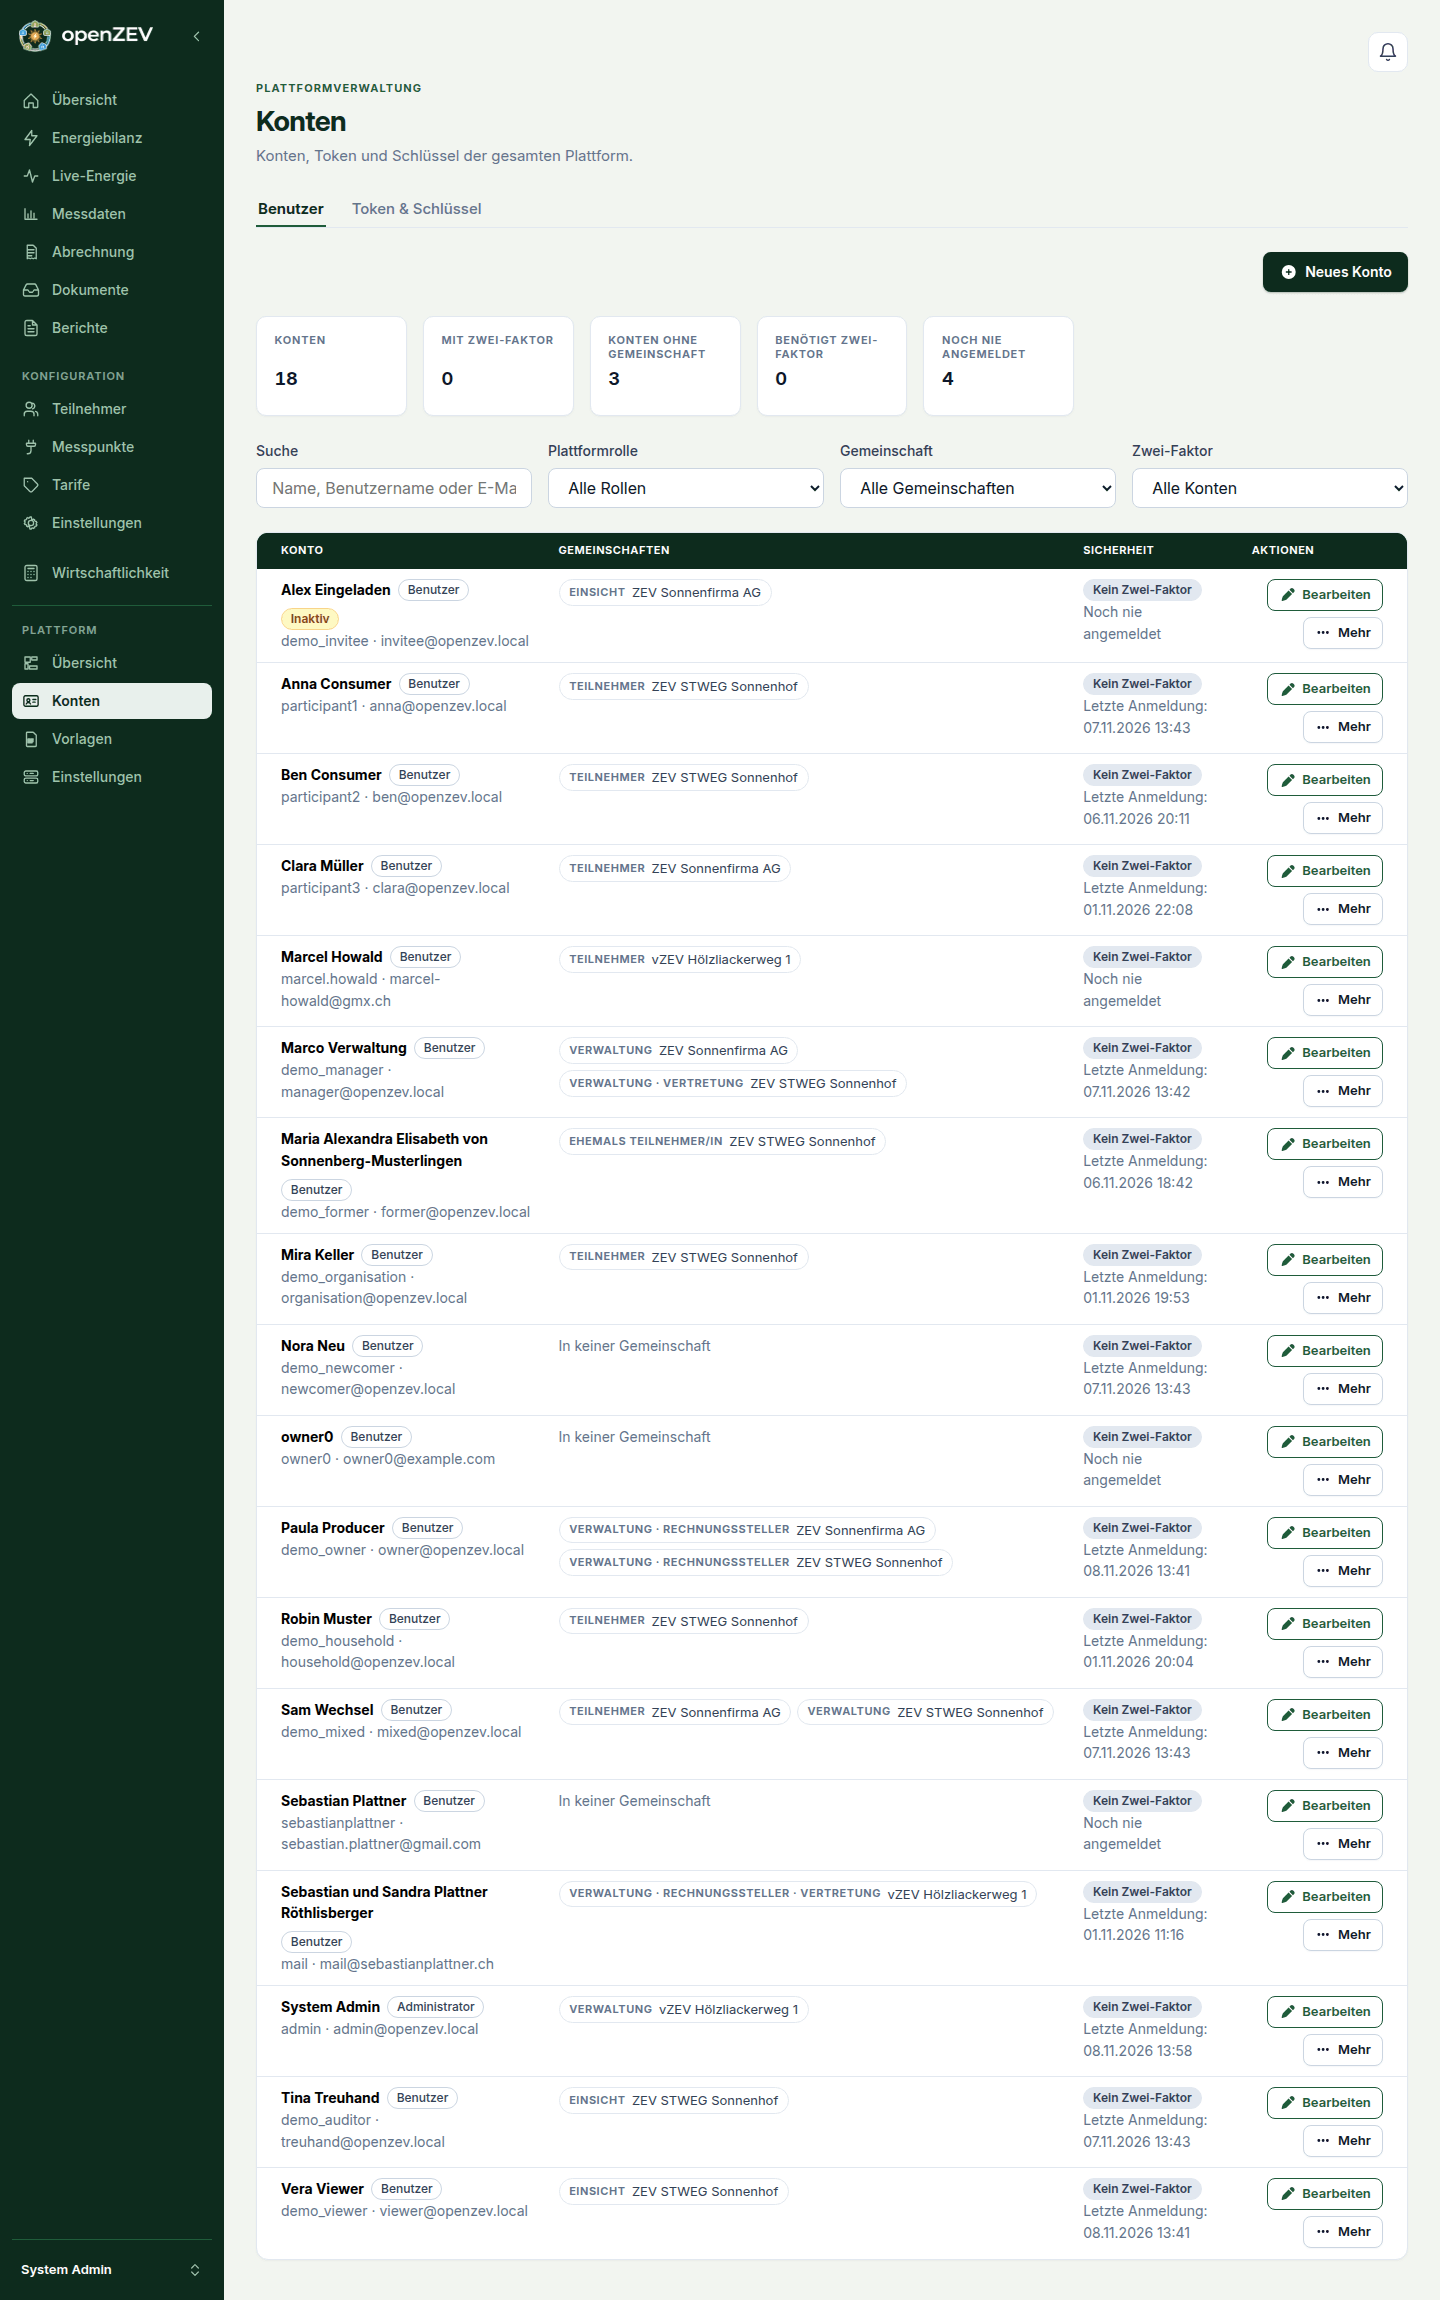
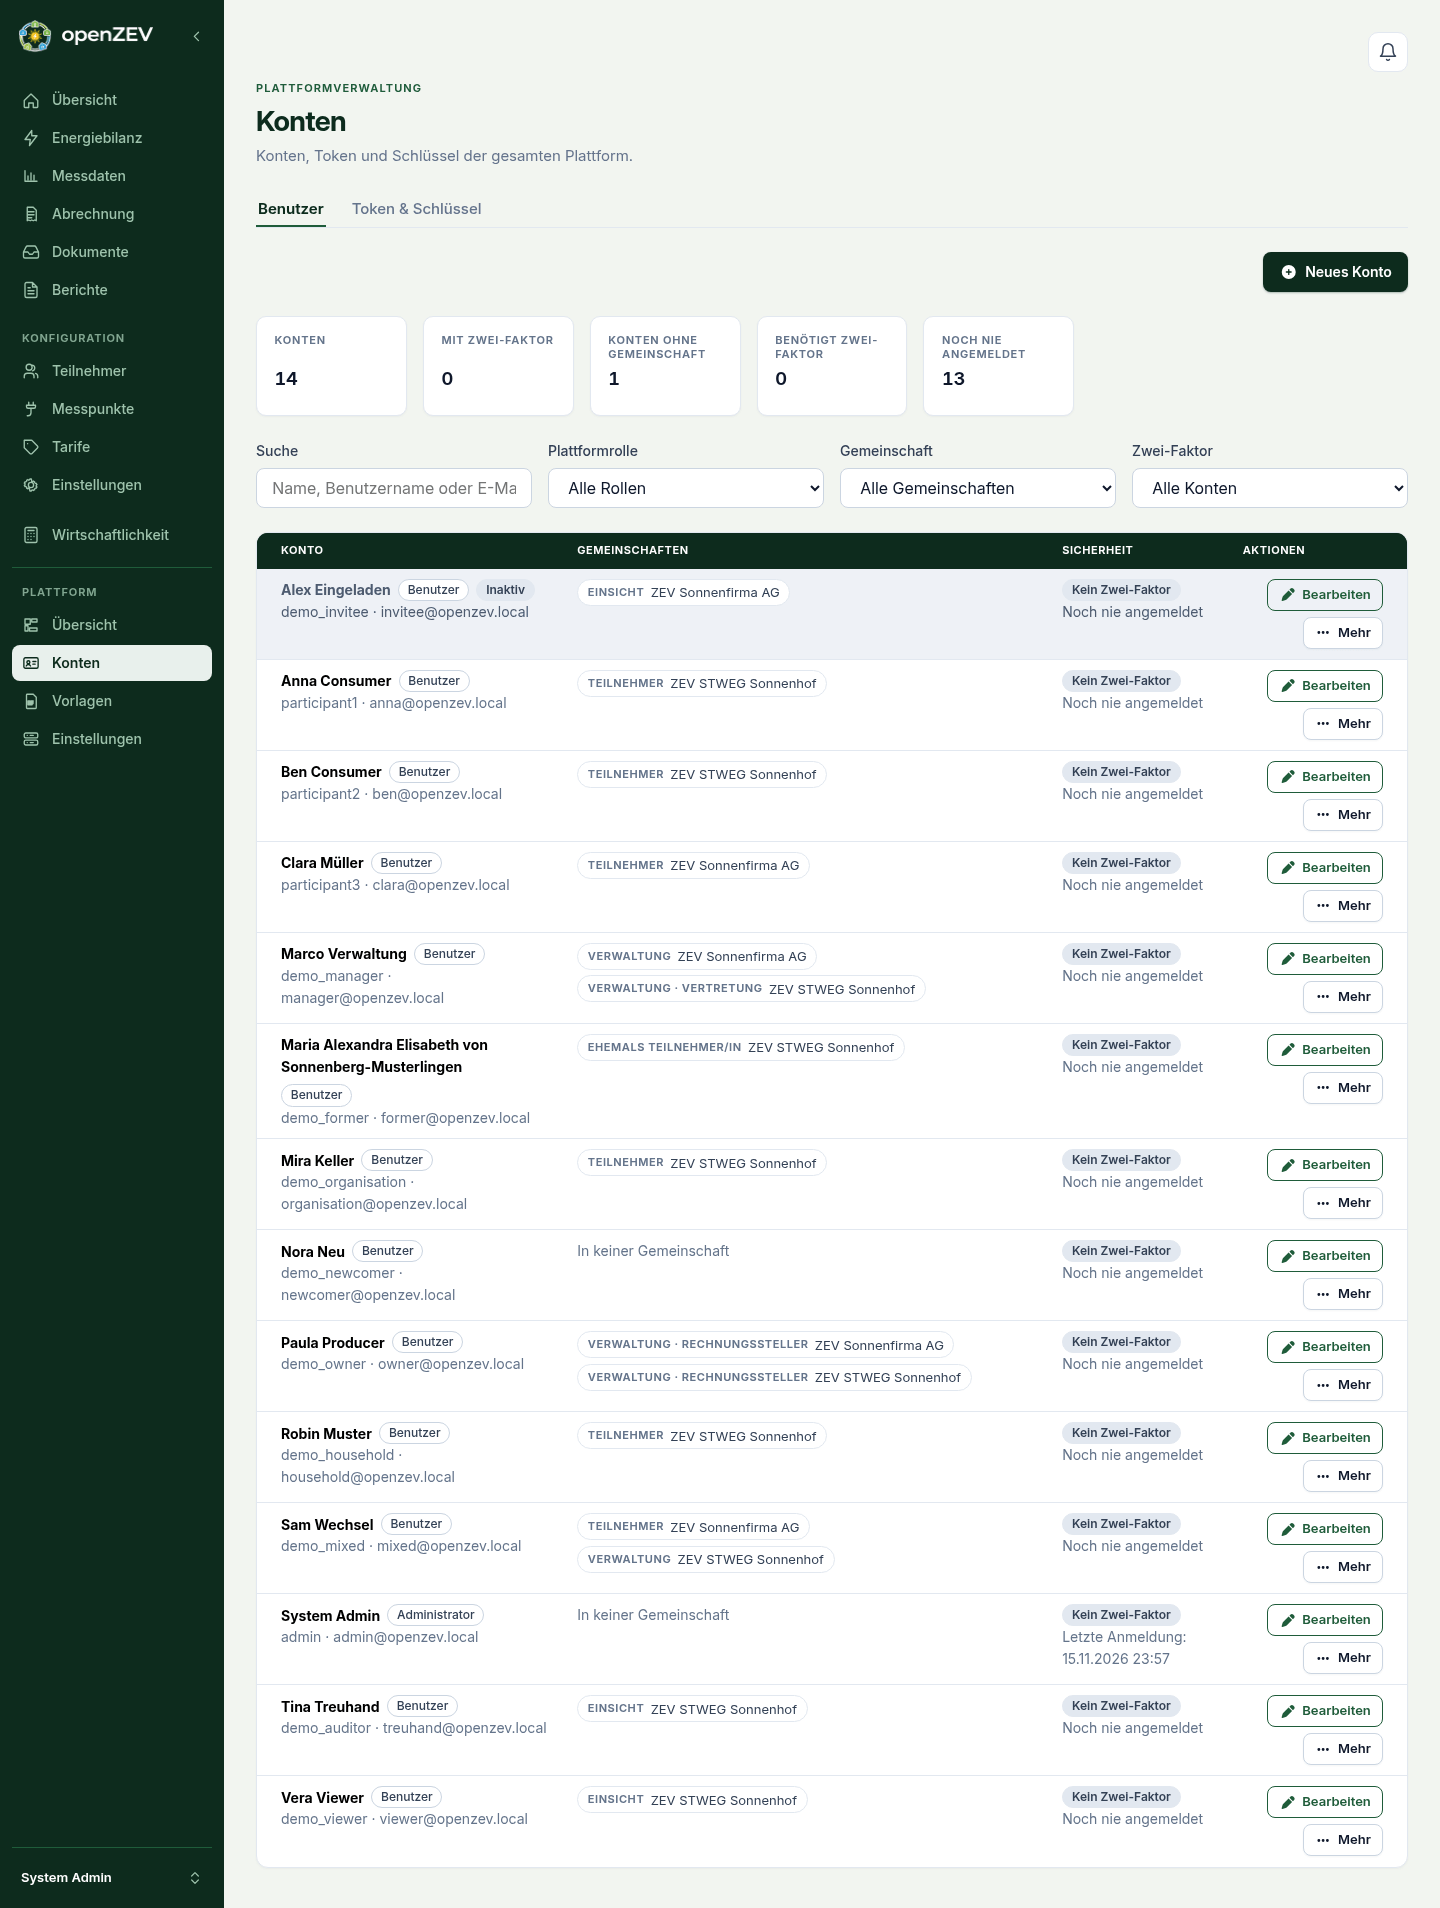
fix(accounts): style inactive account rows

diff --git a/frontend/src/pages/AdminAccountsPage.tsx b/frontend/src/pages/AdminAccountsPage.tsx
@@ -439,12 +439,12 @@ export function AdminAccountsPage({ embedded = false }: { embedded?: boolean }) 
                             ]
 
                             return (
-                                <tr key={account.id}>
+                                <tr key={account.id} className={account.is_active ? 'account-row' : 'account-row is-inactive'}>
                                     <td>
                                         <div style={{ display: 'flex', alignItems: 'center', gap: '0.45rem', flexWrap: 'wrap' }}>
-                                            <strong>{accountDisplayName(account)}</strong>
+                                            <strong className="account-name">{accountDisplayName(account)}</strong>
                                             <span className="badge badge-tag">{roleLabel(account.role)}</span>
-                                            {!account.is_active && <span className="badge badge-warning">{t('pages.accounts.inactive')}</span>}
+                                            {!account.is_active && <span className="badge badge-neutral">{t('pages.accounts.inactive')}</span>}
                                         </div>
                                         <div className="muted">{account.username} · {account.email || '-'}</div>
                                     </td>

diff --git a/frontend/src/styles/index.css b/frontend/src/styles/index.css
@@ -73,6 +73,7 @@
 @import '../components/PeriodSelector.css' layer(pages);
 @import '../features/meteringPoints/MeteringPointsList.css' layer(pages);
 @import '../pages/MeteringPointsPage.css' layer(pages);
+@import '../pages/AdminAccountsPage.css' layer(pages);
 @import '../features/meteringPoints/MeteringPointTypeLegend.css' layer(pages);
 @import '../features/tariffs/TariffCategorySections.css' layer(pages);
 @import '../features/tariffs/TariffOverview.css' layer(pages);

diff --git a/frontend/src/pages/AdminAccountsPage.css b/frontend/src/pages/AdminAccountsPage.css
@@ -1,0 +1,8 @@
+.account-row.is-inactive > td {
+  background: color-mix(in srgb, var(--status-neutral) 60%, var(--surface-card));
+}
+
+.account-row.is-inactive .account-name,
+.account-row.is-inactive > td > .muted {
+  color: color-mix(in srgb, var(--text-body) 50%, var(--text-muted));
+}

diff --git a/docs/specs/2026-03-community-and-access.md b/docs/specs/2026-03-community-and-access.md
@@ -1206,13 +1206,18 @@ community. This replaced a participant-first table in which the same account
 repeated per participant row and the role editor on each row silently changed
 the account's role everywhere.
 
-- **Columns:** *Account* (display name, platform-role badge, `Inactive` badge
+- **Columns:** *Account* (display name, platform-role badge, `Inactive` pill (`badge-neutral`)
   when `is_active` is false, `username · email`), *Communities*
   (`AccountMemberships`), *Security* (a badge per `mfa_methods` entry or "No
   two-factor", `AccountMfaComplianceBadge` when `mfa_compliance` is non-null
   and not `"compliant"`, and a muted "Last sign-in `<date>`" /
   "Never signed in" line from `last_login`), *Actions*.
-- **Membership chips** read `Owner|Participant · <community>`. Selecting one
+- **Inactive rows:** `.account-row.is-inactive` uses the metering-point list's
+  neutral grey background and readable grey name/supporting text. Buttons and
+  membership chips retain their normal appearance and remain usable.
+- **Membership chips** show the relation (`Manager`, `Viewer`, `Participant` or
+  `Former participant`), including issuer/representative roles, before the community.
+  Selecting one
   calls `setSelectedZevId(zev)` (as the scope-line community switch does — which also
   saves the admin's `preferred_zev`, as any switch does) and opens
   `/participants?focus=<participant>` (`/participants` when the account is an

diff --git a/docs/specs/2026-08-ui-redesign-pdf-style.md b/docs/specs/2026-08-ui-redesign-pdf-style.md
@@ -1166,9 +1166,9 @@ contracts are unchanged.
   | `.badge-tag` | Card / `--border-strong` / `--text-body`, weight 500 | Attributes, not states |
 
   Neutral/info and success/brand remain aliases for existing consumers.
-  Inactive metering points use neutral pills and grey rows with readable
-  supporting text; controls and details remain usable. Inventory deactivation
-  does not stop billing.
+  Inactive accounts and metering points use neutral pills and grey rows with
+  readable supporting text; controls and details remain usable. Metering-point
+  inventory deactivation does not stop billing.
   Data-quality labels use success for Complete, quiet warning for Partial and danger for Missing.
   Staff invoice tables use success for paid, danger for cancelled and a neutral tag
   for other workflow states; Data review is separate. Plain detail labels retain

diff --git a/docs/user-guide/11-roles-and-permissions.md b/docs/user-guide/11-roles-and-permissions.md
@@ -225,6 +225,8 @@ their own community under **ZEV settings → People & access**.
 each:
 
 - **Account** — name, username, email and the account's **platform role**.
+  Inactive accounts have a grey row and an **Inactive** label; their
+  action buttons remain available, including **Activate** in the menu.
 - **Communities** — one chip per community the account belongs to, marked
   *Manager*, *Viewer*, *Participant* or *Former participant*. A manager through a
   role says which: *Manager · Issuer* or *Manager · Representative*. An account
